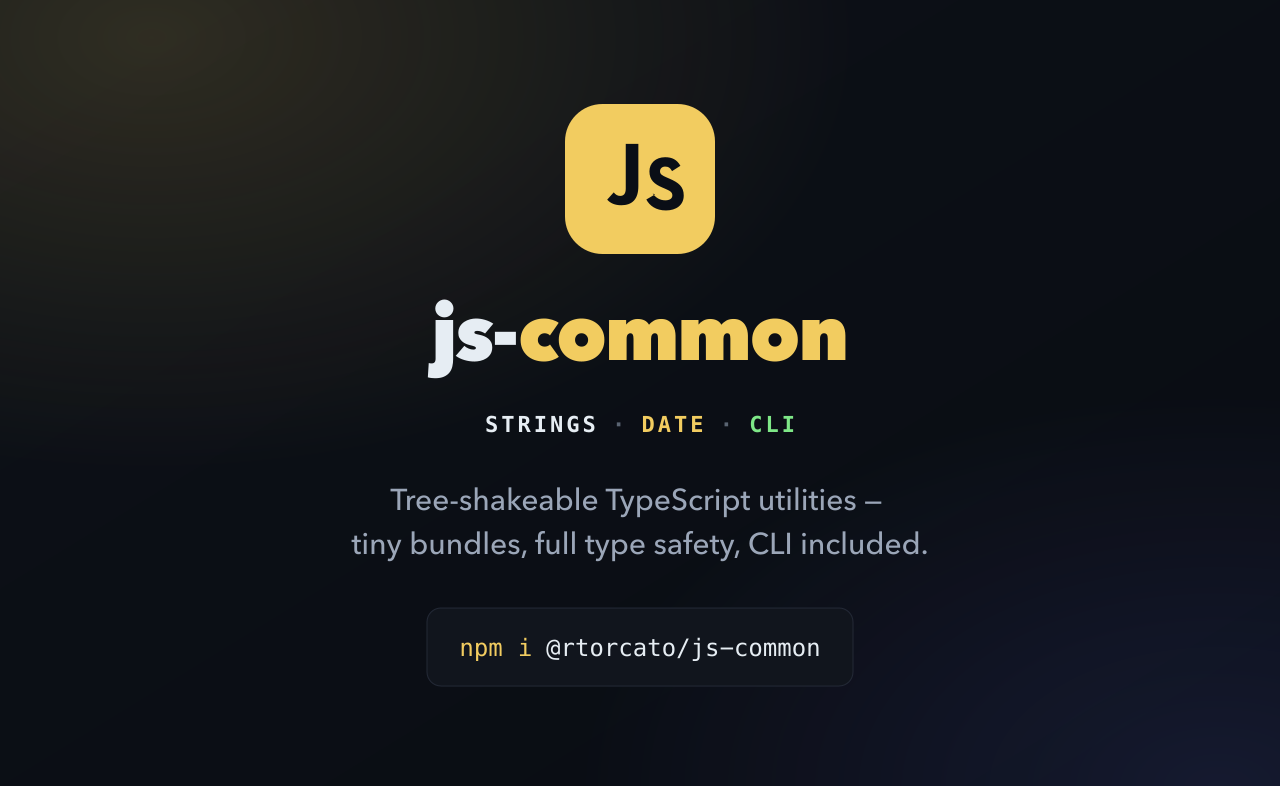
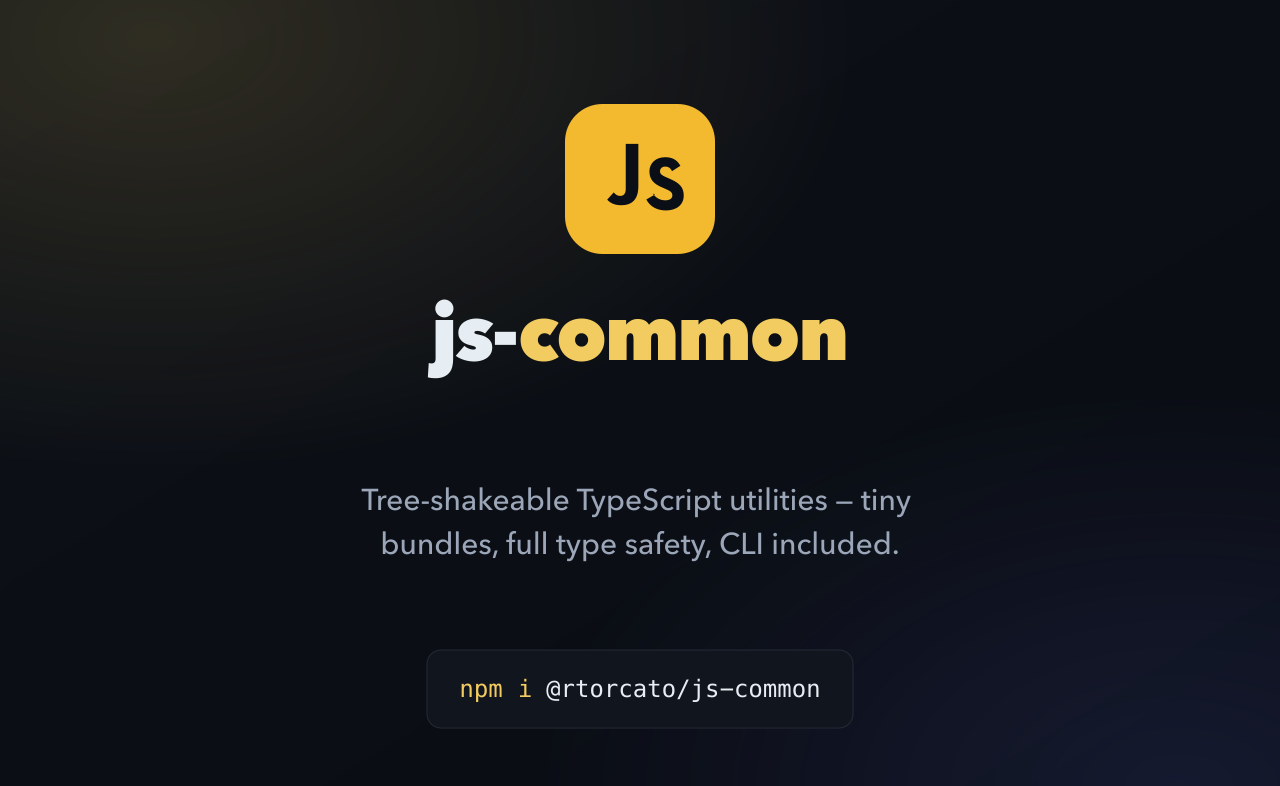
chore(brand): regenerate brand assets with brand-kit 1.1.0
Run brand-kit --update and render so the banner, mobile banner and
social-card SVGs match the current brand meta, and re-render the stale
PNGs, favicon-512 and favicon.ico. README's hand-written banner block now
sits between brand-kit's managed markers, so later updates rewrite it
rather than adding a second copy. brand/.render.json records the render
hashes that doctor checks.

Closes #335

diff --git a/README.md b/README.md
@@ -1,11 +1,11 @@
 # js-common
 
-<p align="center">
-  <picture>
-    <source media="(max-width: 600px)" srcset="./brand/banner-mobile.png">
-    <img src="./brand/banner.png" alt="js-common — Tree-shakeable TypeScript utilities: tiny bundles, full type safety, CLI included." width="100%">
-  </picture>
-</p>
+<!-- brand-kit:banner:start -->
+<picture>
+  <source media="(max-width: 640px)" srcset="./brand/banner-mobile.png">
+  <img src="./brand/banner.png" alt="js-common banner" width="1600">
+</picture>
+<!-- brand-kit:banner:end -->
 
 [![CI](https://github.com/rtorcato/js-common/actions/workflows/ci.yml/badge.svg)](https://github.com/rtorcato/js-common/actions/workflows/ci.yml)
 [![npm version](https://badge.fury.io/js/%40rtorcato%2Fjs-common.svg)](https://badge.fury.io/js/%40rtorcato%2Fjs-common)
